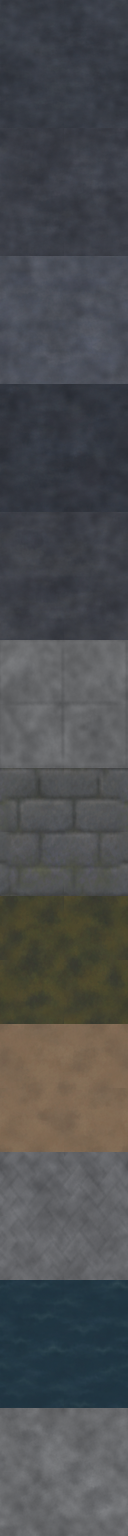
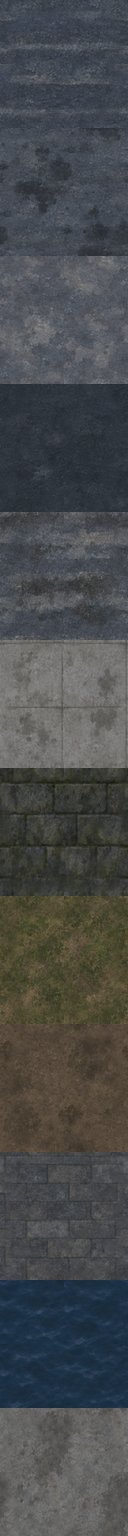
Open World: new dark gritty ground tile sheet (levels matched to Spider Fuser), steeper sea-wall slope

diff --git a/src/world/citylite.js b/src/world/citylite.js
@@ -105,7 +105,7 @@ export async function buildCity({ scene, renderer }) {
 
   // open water: one big plane with low animated waves (normal-only, so it stays cheap). The player can swim in it (world.swimY).
   const SWIM_Y = -3.4, SEABED = SWIM_Y - 2.4; // water surface (was -1.6, then -2.6) and the sea floor the shore slopes down to
-  const SLOPE_RUN = 1.4; // shore slope: metres of run per metre of drop (1.4 = ~35 degrees, like Spider Fuser's embankments)
+  const SLOPE_RUN = 0.6; // shore slope: metres of run per metre of drop (0.6 = ~60 degrees, a steep stone embankment like Spider Fuser's)
   const waterU = { uWT: { value: 0 } };
   const matWater = new THREE.MeshStandardMaterial({ color: 0x213f58, roughness: 0.16, metalness: 0 });
   matWater.onBeforeCompile = (sh) => {
